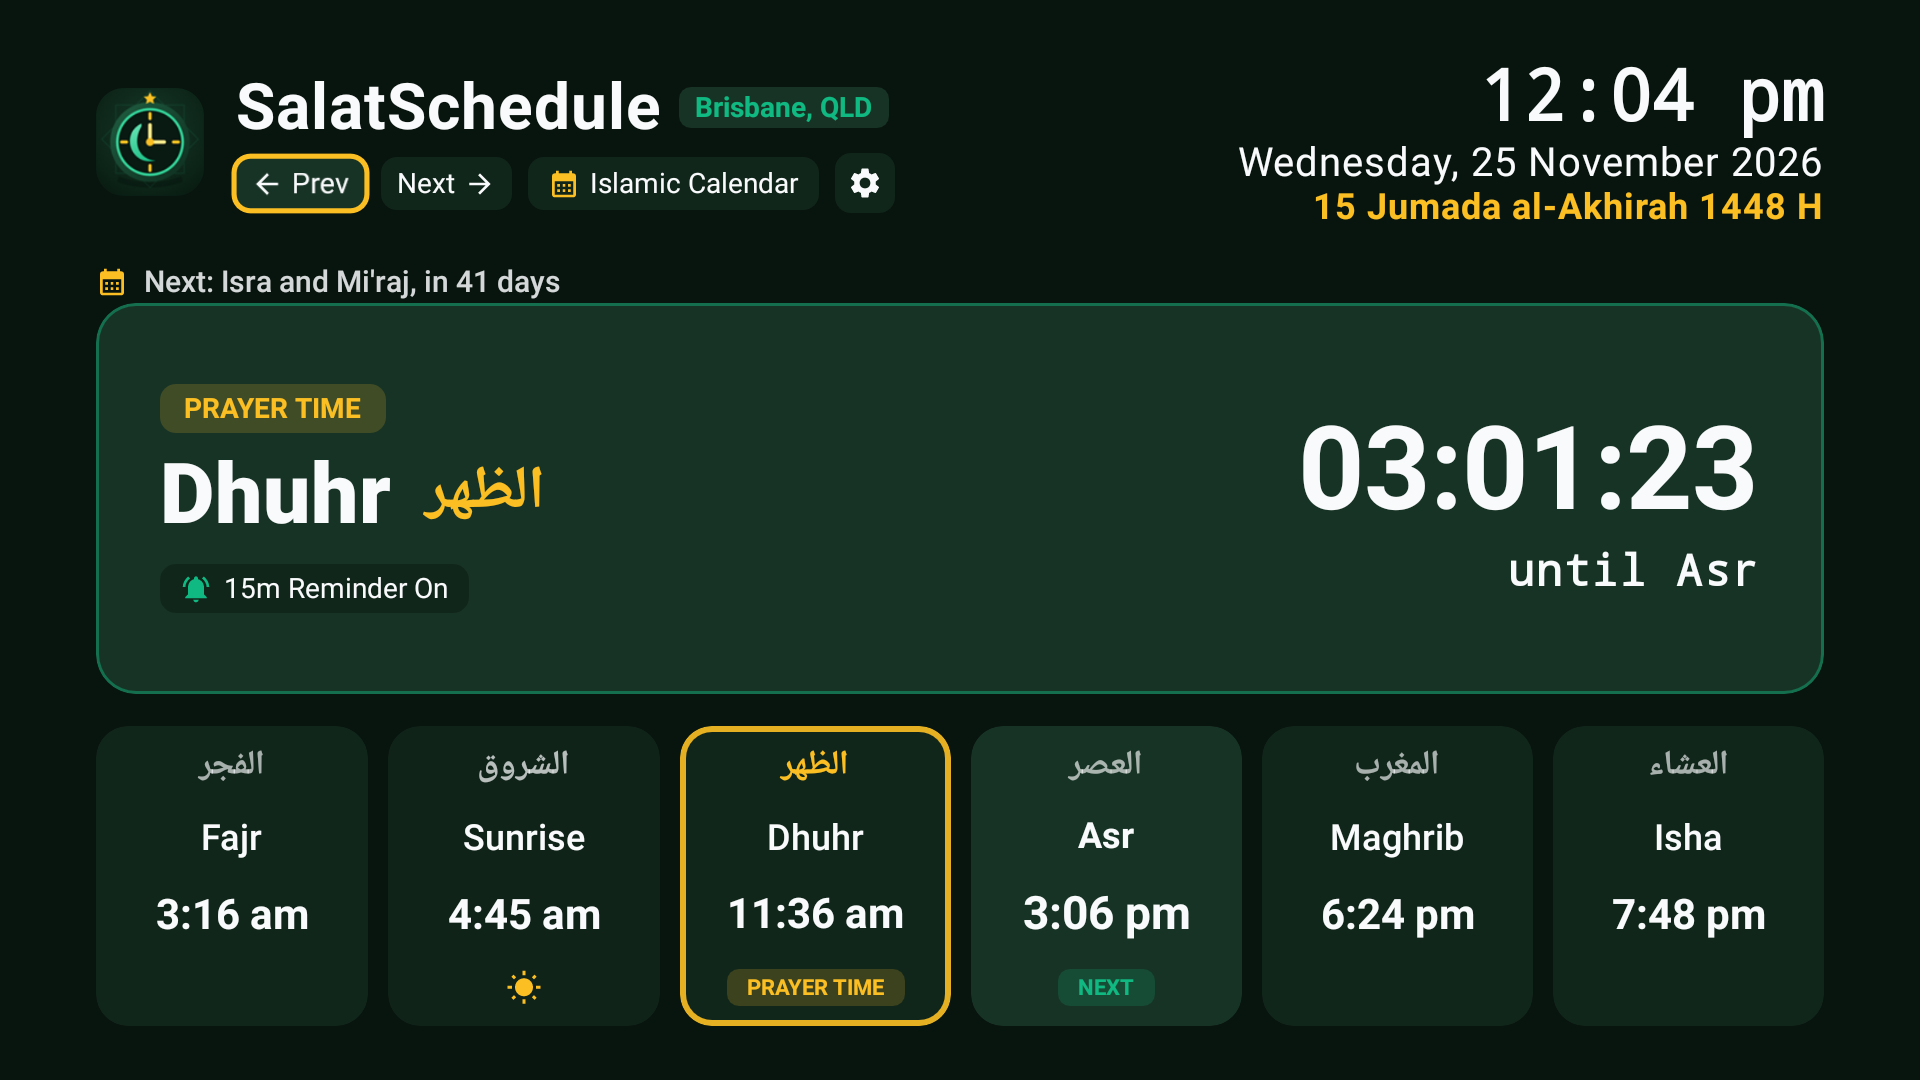
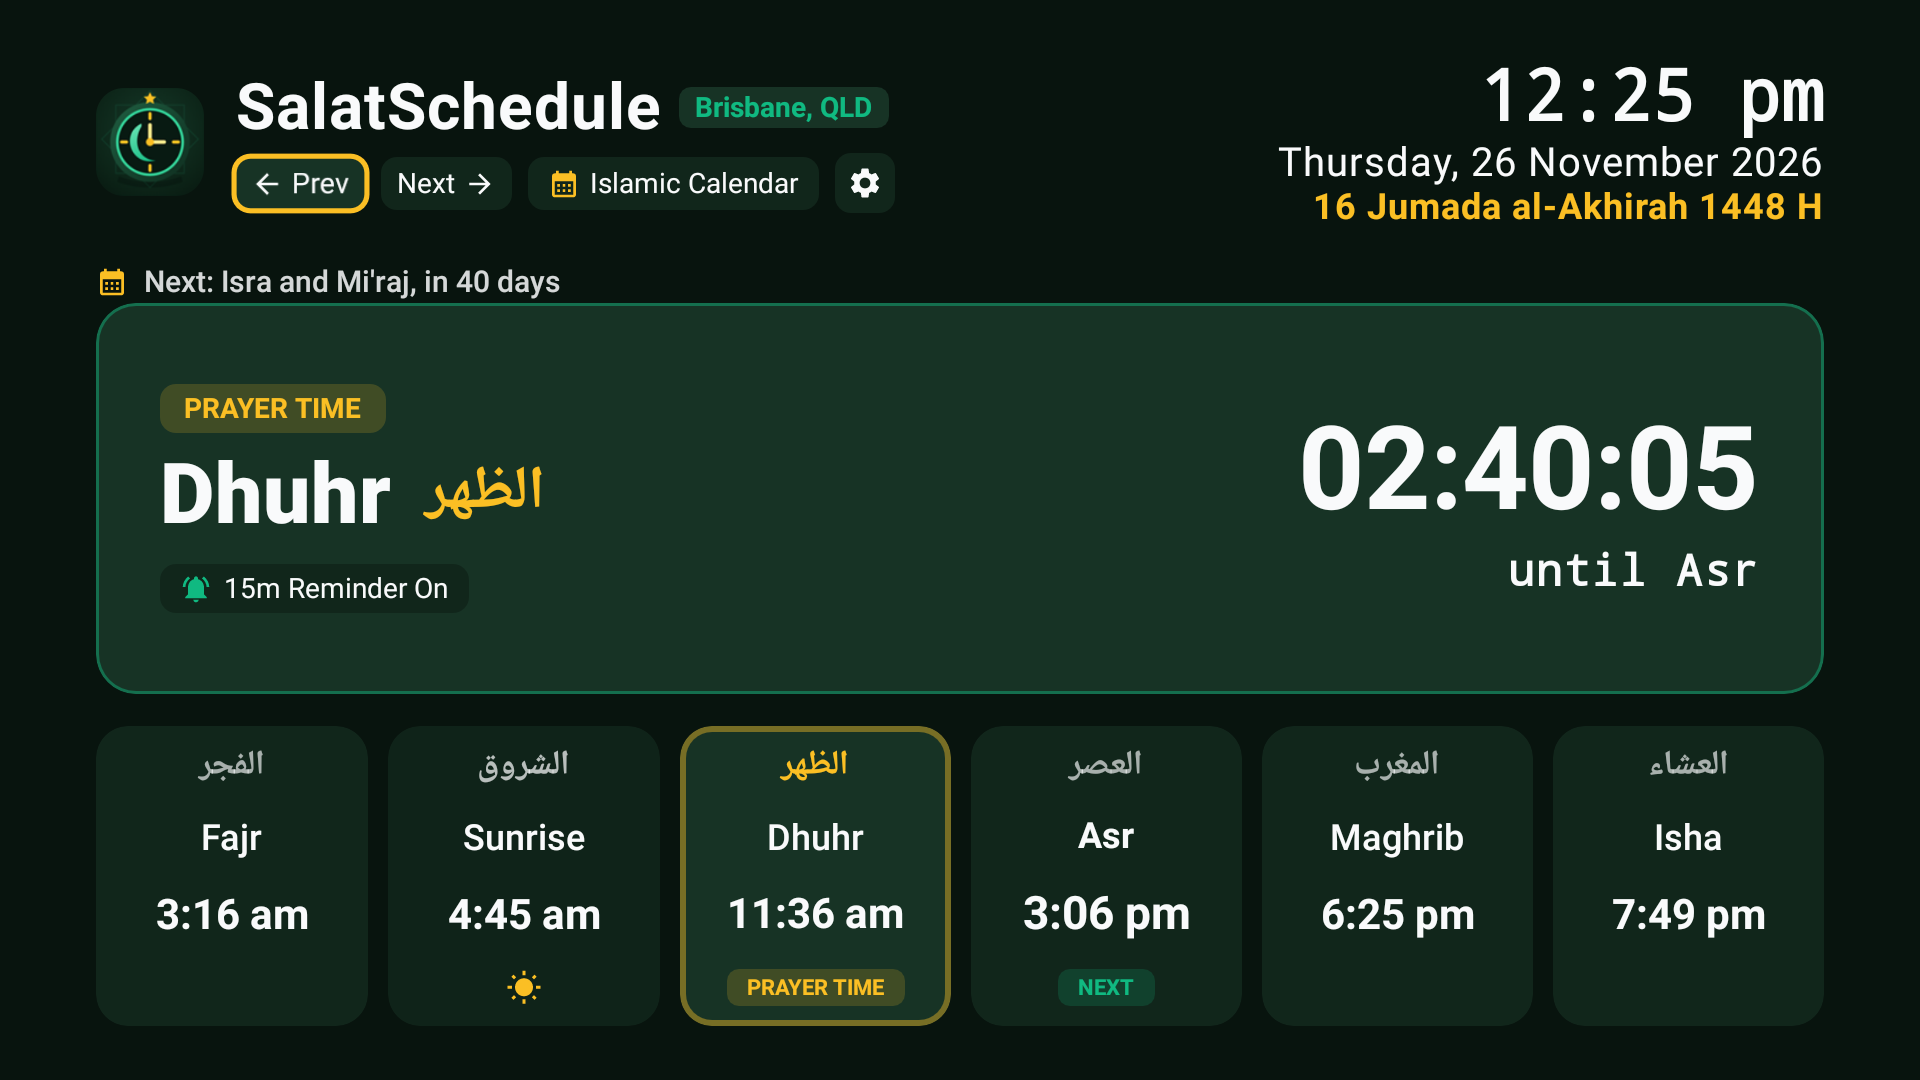
ui: align main and current prayer panel backgrounds across Light and Dark themes

diff --git a/app-salatschedule/src/main/java/com/salatschedule/tv/ui/home/HomeScreen.kt b/app-salatschedule/src/main/java/com/salatschedule/tv/ui/home/HomeScreen.kt
@@ -61,6 +61,7 @@ import com.salatsign.tv.ui.common.tvFocusable
 import com.salatsign.tv.ui.theme.AccentEmerald
 import com.salatsign.tv.ui.theme.AccentGold
 import com.salatsign.tv.ui.theme.EmeraldLight
+import com.salatsign.tv.ui.theme.LocalIsDarkTheme
 import com.salatsign.tv.ui.theme.TvTypography
 import java.time.ZoneId
 import java.time.ZonedDateTime
@@ -223,6 +224,8 @@ fun HomeActiveStrikeBanner(
     modifier: Modifier = Modifier
 ) {
     val colorScheme = MaterialTheme.colorScheme
+    val isDark = LocalIsDarkTheme.current
+    val panelBg = if (isDark) colorScheme.surfaceVariant else colorScheme.surface
     val prayerLabel = stringResource(prayer.prayer.labelRes())
     val strikeShape = RoundedCornerShape(20.dp)
     val accentPrimary = colorScheme.primary
@@ -231,7 +234,7 @@ fun HomeActiveStrikeBanner(
     Box(
         modifier = modifier
             .clip(strikeShape)
-            .background(colorScheme.surfaceVariant, strikeShape)
+            .background(panelBg, strikeShape)
             .pulsingGlow(shape = strikeShape, glowColor = accentSecondary)
     ) {
         Column(
@@ -330,6 +333,9 @@ fun NextPrayerSpotlightCard(
     modifier: Modifier = Modifier
 ) {
     val colorScheme = MaterialTheme.colorScheme
+    val isDark = LocalIsDarkTheme.current
+    val panelBg = if (isDark) colorScheme.surfaceVariant else colorScheme.surface
+    val badgeBg = if (isDark) colorScheme.surface else colorScheme.surfaceVariant
     val accentPrimary = colorScheme.primary
     val accentSecondary = colorScheme.secondary
     val heroPrayer = activePrayer ?: nextPrayer
@@ -342,7 +348,7 @@ fun NextPrayerSpotlightCard(
     Box(
         modifier = modifier
             .clip(spotlightShape)
-            .background(colorScheme.surfaceVariant, spotlightShape)
+            .background(panelBg, spotlightShape)
             .border(1.5.dp, accentPrimary.copy(alpha = 0.45f), spotlightShape)
     ) {
         Row(
@@ -410,7 +416,7 @@ fun NextPrayerSpotlightCard(
                 // Reminder Badge
                 Row(
                     modifier = Modifier
-                        .background(colorScheme.surface, RoundedCornerShape(8.dp))
+                        .background(badgeBg, RoundedCornerShape(8.dp))
                         .padding(horizontal = 10.dp, vertical = 4.dp),
                     verticalAlignment = Alignment.CenterVertically
                 ) {

diff --git a/core-tv-ui/src/main/java/com/salatsign/tv/ui/common/PrayerCardsRow.kt b/core-tv-ui/src/main/java/com/salatsign/tv/ui/common/PrayerCardsRow.kt
@@ -34,6 +34,7 @@ import com.salatsign.tv.data.model.Prayer
 import com.salatsign.tv.data.model.PrayerTimeItem
 import com.salatsign.tv.ui.theme.AccentEmerald
 import com.salatsign.tv.ui.theme.AccentGold
+import com.salatsign.tv.ui.theme.LocalIsDarkTheme
 import com.salatsign.tv.ui.theme.TvTypography
 
 @Composable
@@ -85,14 +86,16 @@ private fun SunriseCard(
     modifier: Modifier = Modifier
 ) {
     val colorScheme = MaterialTheme.colorScheme
+    val isDark = LocalIsDarkTheme.current
     val accentPrimary = colorScheme.primary
     val accentSecondary = colorScheme.secondary
     val shape = RoundedCornerShape(16.dp)
+    val sunriseBg = if (isDark) colorScheme.surface.copy(alpha = 0.82f) else colorScheme.surfaceVariant
 
     Box(
         modifier = modifier
             .clip(shape)
-            .background(colorScheme.surface.copy(alpha = 0.82f), shape)
+            .background(sunriseBg, shape)
     ) {
         Column(
             modifier = Modifier
@@ -164,7 +167,12 @@ fun PrayerCard(
     }
 
     val shape = RoundedCornerShape(16.dp)
-    val containerColor = if (item.isNext) colorScheme.surfaceVariant else colorScheme.surface
+    val isDark = LocalIsDarkTheme.current
+    val containerColor = if (isDark) {
+        if (item.isActive) colorScheme.surfaceVariant else colorScheme.surface
+    } else {
+        if (item.isActive) colorScheme.surface else colorScheme.surfaceVariant
+    }
     val borderModifier = if (item.isActive) {
         Modifier.pulsingGlow(shape = shape, glowColor = accentSecondary)
     } else {

diff --git a/app-salatsign/src/main/java/com/salatsign/tv/ui/mosque/MosqueSignageScreen.kt b/app-salatsign/src/main/java/com/salatsign/tv/ui/mosque/MosqueSignageScreen.kt
@@ -76,6 +76,7 @@ import com.google.zxing.EncodeHintType
 import com.google.zxing.common.BitMatrix
 import com.google.zxing.qrcode.QRCodeWriter
 import com.salatsign.core.tv.R
+import com.salatsign.tv.ui.theme.LocalIsDarkTheme
 import com.salatsign.tv.data.model.Prayer
 import com.salatsign.tv.data.model.PrayerTimeItem
 import com.salatsign.tv.ui.common.LiveClockHeader
@@ -332,12 +333,14 @@ fun MosqueActiveStrikeBanner(
     }
 
     val strikeShape = RoundedCornerShape(20.dp)
+    val isDark = LocalIsDarkTheme.current
+    val panelBg = if (isDark) colorScheme.surfaceVariant else colorScheme.surface
     val accentPrimary = colorScheme.primary
     val accentSecondary = colorScheme.secondary
     Box(
         modifier = modifier
             .clip(strikeShape)
-            .background(colorScheme.surfaceVariant, strikeShape)
+            .background(panelBg, strikeShape)
             .pulsingGlow(shape = strikeShape, glowColor = accentSecondary)
     ) {
         Column(
@@ -460,10 +463,12 @@ fun MosqueNextPrayerBanner(
     }
 
     val bannerShape = RoundedCornerShape(20.dp)
+    val isDark = LocalIsDarkTheme.current
+    val panelBg = if (isDark) colorScheme.surfaceVariant else colorScheme.surface
     Box(
         modifier = modifier
             .clip(bannerShape)
-            .background(colorScheme.surfaceVariant, bannerShape)
+            .background(panelBg, bannerShape)
             .border(width = 1.5.dp, color = accentPrimary.copy(alpha = 0.45f), shape = bannerShape)
     ) {
         Row(
